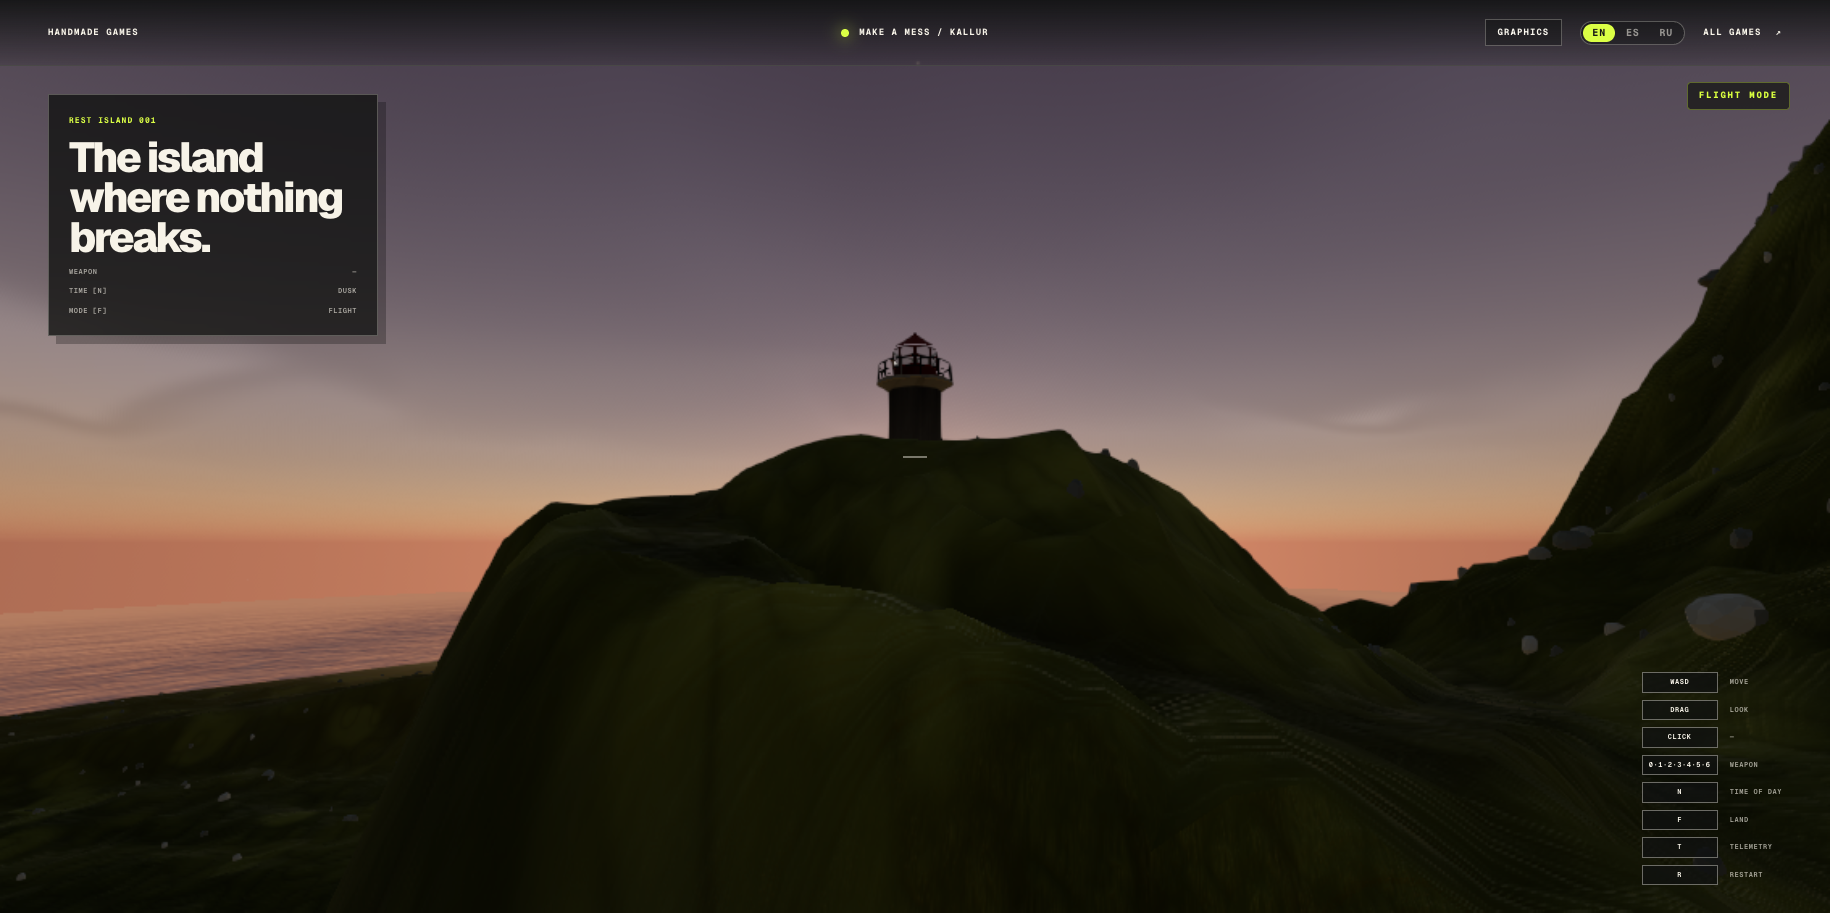
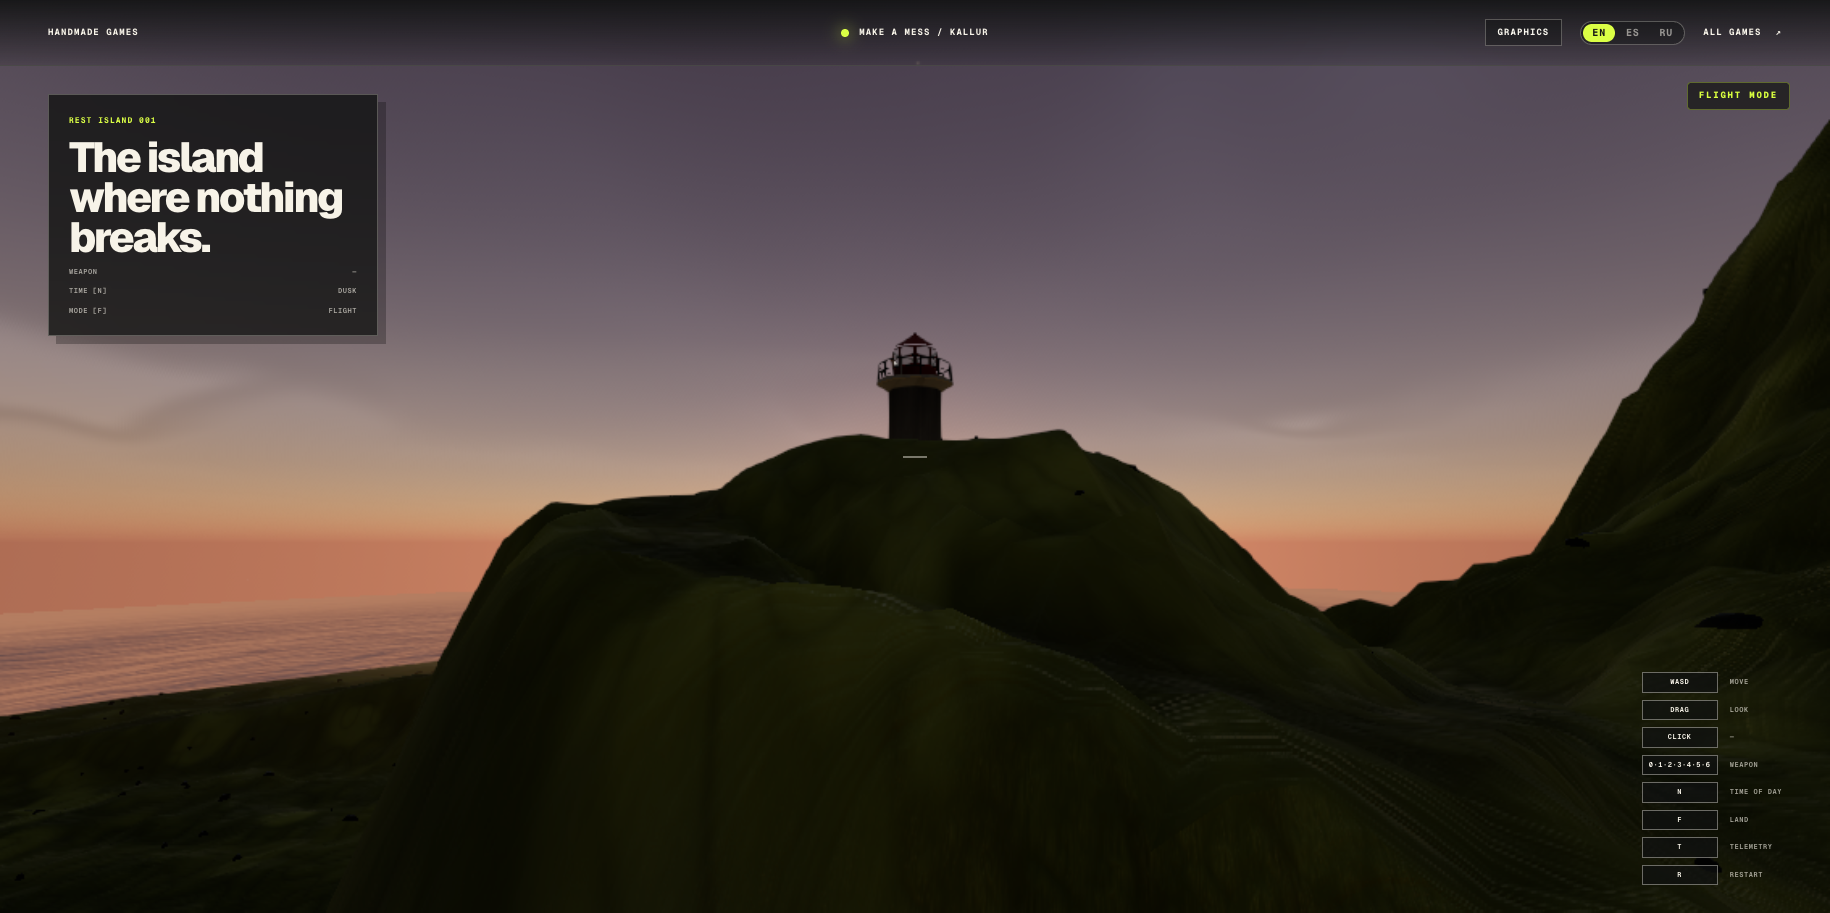
fix(kallur): boulders rejoin the world's laws - all four notes at once
Igor's holistic verdict executed as one architecture, not four patches.
The surface: the render material IS the piece pipeline's basalt
(getPieceMaterial), so the boulders breathe the same materialAtmosphere
air they used to ignore, wear the world's stone texture, bump and
wetness, and their bodies are the escarpment strata ratios via
instanceColor - the pale blue-grey impossible on the Faroes is gone.
Shading: the facet soup welds into shared vertices - the polygon keeps
the silhouette, the smoothed form reads like the world's shells. Albedo
masks only on top: lichen crowns, the sod line converging to turf at
the base, and the beach wet band below the sand's own waterline law.
The seat: slope physics - a hillside boulder sinks INTO the ground (up
to 0.6 of its size), tilts its base to the terrain normal, lies with
its long axis along the contour, and columnar stubs stand on near-flat
ground only. Colliders untouched.

diff --git a/games/make-a-mess/src/game/KallurBoulders.tsx b/games/make-a-mess/src/game/KallurBoulders.tsx
@@ -3,96 +3,153 @@ import {
   BufferAttribute,
   BufferGeometry,
   Color,
+  Euler,
+  InstancedBufferAttribute,
   InstancedMesh,
   Matrix4,
   MeshStandardMaterial,
   Quaternion,
-  Euler,
   Vector3,
 } from "three";
 import {
   buildBoulderArchetype,
   KALLUR_BOULDER_ARCHETYPES,
 } from "../content/objects/kallur/kallurBoulderKitObject.ts";
-import { kallurBoulderPlacements } from "../content/scenes/kallur/kallurBoulderPlacements.ts";
+import {
+  KALLUR_BOULDER_BODY_COLOUR,
+  kallurBoulderPlacements,
+} from "../content/scenes/kallur/kallurBoulderPlacements.ts";
+import { getPieceMaterial } from "./materialTextures.ts";
 
 /**
- * The accepted boulder kit in the world: SIX InstancedMesh, one per
- * archetype — ~1700 stones in six draw calls. Geometry is built once per
- * process (module memo below), matrices once per mount; nothing is
- * recomputed per frame or per launch beyond that (Igor's condition).
- * The invisible box pieces keep colliders and support. The lichen crown
- * is an ALBEDO mask (world-up + hash), not a lighting law — light stays
- * with its single owner.
+ * The accepted boulder kit in the world — six InstancedMesh, and the
+ * SURFACE belongs to the world's own laws (Igor, 21.08, all four points
+ * at once): the material is the piece pipeline's basalt via
+ * getPieceMaterial, so the boulders breathe the same materialAtmosphere
+ * air (they used to ignore the haze), wear the same stone micro-texture,
+ * bump and wetness as every rock of Kallur, and their body tones are the
+ * escarpment strata ratios via instanceColor. The polygon still owns the
+ * SILHOUETTE; shading is smoothed by welding the facet soup into shared
+ * vertices — the same smoothed-form reading the world's shells have. On
+ * top ride two albedo masks only: lichen crowns (world-up + hash) and
+ * the sod line at the base that converges to the turf statistics.
+ * Geometry is built once per process; matrices once per mount.
  */
 
-let archetypeGeometryCache: Map<string, BufferGeometry> | null = null;
+let geometryCache: Map<string, BufferGeometry> | null = null;
 
-function archetypeGeometries(): Map<string, BufferGeometry> {
-  if (archetypeGeometryCache) return archetypeGeometryCache;
-  const cache = new Map<string, BufferGeometry>();
-  for (const archetype of KALLUR_BOULDER_ARCHETYPES) {
-    const source = buildBoulderArchetype(archetype);
-    const geometry = new BufferGeometry();
-    const positions = new Float32Array(source.vertices.length * 3);
-    source.vertices.forEach(([x, y, z], index) => {
-      positions[index * 3] = x;
-      positions[index * 3 + 1] = y;
-      positions[index * 3 + 2] = z;
-    });
-    geometry.setAttribute("position", new BufferAttribute(positions, 3));
-    geometry.setIndex(
-      new BufferAttribute(
-        new Uint16Array(source.triangles.flat()),
-        1,
-      ),
-    );
-    geometry.computeVertexNormals();
-    geometry.computeBoundingSphere();
-    cache.set(archetype.id, geometry);
+/** Weld the facet soup into shared vertices: polygonal silhouette, smooth shading. */
+function weldedGeometry(archetypeId: string): BufferGeometry | undefined {
+  if (!geometryCache) {
+    geometryCache = new Map();
+    for (const archetype of KALLUR_BOULDER_ARCHETYPES) {
+      const source = buildBoulderArchetype(archetype);
+      const index = new Map<string, number>();
+      const positions: number[] = [];
+      const remap: number[] = [];
+      source.vertices.forEach(([x, y, z]) => {
+        const key = `${x.toFixed(4)}:${y.toFixed(4)}:${z.toFixed(4)}`;
+        let slot = index.get(key);
+        if (slot === undefined) {
+          slot = positions.length / 3;
+          positions.push(x, y, z);
+          index.set(key, slot);
+        }
+        remap.push(slot);
+      });
+      const indices: number[] = [];
+      for (const [a, b, c] of source.triangles) {
+        indices.push(remap[a], remap[b], remap[c]);
+      }
+      const geometry = new BufferGeometry();
+      geometry.setAttribute(
+        "position",
+        new BufferAttribute(new Float32Array(positions), 3),
+      );
+      geometry.setIndex(new BufferAttribute(new Uint16Array(indices), 1));
+      geometry.computeVertexNormals();
+      geometry.computeBoundingSphere();
+      geometryCache.set(archetype.id, geometry);
+    }
   }
-  archetypeGeometryCache = cache;
-  return cache;
+  return geometryCache.get(archetypeId);
 }
 
-const boulderMaterial = new MeshStandardMaterial({
-  color: "#ffffff",
-  roughness: 0.94,
-  metalness: 0,
-});
-boulderMaterial.onBeforeCompile = (shader) => {
-  shader.vertexShader = shader.vertexShader
-    .replace(
-      "#include <common>",
-      "#include <common>\nvarying vec3 vBoulderWorldNormal;\nvarying vec3 vBoulderWorld;",
-    )
-    .replace(
-      "#include <worldpos_vertex>",
-      `#include <worldpos_vertex>
-vBoulderWorld = (modelMatrix * instanceMatrix * vec4(position, 1.0)).xyz;
-vBoulderWorldNormal = normalize(mat3(modelMatrix) * mat3(instanceMatrix) * normal);`,
-    );
-  shader.fragmentShader = shader.fragmentShader
-    .replace(
-      "#include <common>",
-      "#include <common>\nvarying vec3 vBoulderWorldNormal;\nvarying vec3 vBoulderWorld;",
-    )
-    .replace(
-      "#include <map_fragment>",
-      `#include <map_fragment>
-// Lichen crowns (bible III): pale speckle on upward faces — the bright
-// dots that make the reference hill "вкусно". Albedo only.
-float lichenHash = fract(sin(dot(floor(vBoulderWorld.xz * 3.1),
+/** Neutral piece-pipeline attributes (the LandscapeSurface recipe). */
+function attachPieceAttributes(geometry: BufferGeometry, count: number): void {
+  const fill = (values: readonly number[], size: number) => {
+    const data = new Float32Array(count * size);
+    for (let row = 0; row < count; row += 1) {
+      for (let component = 0; component < size; component += 1) {
+        data[row * size + component] = values[component];
+      }
+    }
+    return new InstancedBufferAttribute(data, size);
+  };
+  geometry.setAttribute("materialAnchor", fill([0, 0, 0, 0], 4));
+  geometry.setAttribute("bakedAoA", fill([1, 1, 1, 1], 4));
+  geometry.setAttribute("bakedAoB", fill([1, 1, 1, 1], 4));
+  geometry.setAttribute("bakedSkyExposure", fill([1], 1));
+  geometry.setAttribute("materialFaceMaskPos", fill([0, 0, 0], 3));
+  geometry.setAttribute("materialFaceMaskNeg", fill([0, 0, 0], 3));
+  geometry.setAttribute("silicateJointBand", fill([0], 1));
+  geometry.setAttribute("silicateJointTint", fill([0, 0, 0], 3));
+}
+
+let boulderMaterial: MeshStandardMaterial | null = null;
+
+function getBoulderMaterial(): MeshStandardMaterial {
+  if (boulderMaterial) return boulderMaterial;
+  // A PRIVATE cache entry (the colour string differs from every wall
+  // stratum), so wrapping its compile hook cannot lichen the wall.
+  const material = getPieceMaterial("basalt", KALLUR_BOULDER_BODY_COLOUR);
+  const pieceCompile = material.onBeforeCompile;
+  material.onBeforeCompile = (shader, renderer) => {
+    pieceCompile?.(shader, renderer);
+    shader.vertexShader = shader.vertexShader
+      .replace(
+        "#include <common>",
+        "#include <common>\nvarying float vBoulderLocalY;",
+      )
+      .replace(
+        "#include <begin_vertex>",
+        "#include <begin_vertex>\nvBoulderLocalY = position.y;",
+      );
+    shader.fragmentShader = shader.fragmentShader
+      .replace(
+        "#include <common>",
+        "#include <common>\nvarying float vBoulderLocalY;",
+      )
+      .replace(
+        "#include <color_fragment>",
+        `#include <color_fragment>
+// Albedo masks only - light keeps its owner. Lichen crowns: the bright
+// speckle of the reference (bible III), on upward faces of the tops.
+vec3 boulderWorldNormal = inverseTransformDirection(normalize(vNormal), viewMatrix);
+float boulderLichenHash = fract(sin(dot(floor(vMaterialCoordinate.xz * 2.7),
   vec2(127.1, 311.7))) * 43758.5453);
-float lichen = smoothstep(0.55, 0.9, vBoulderWorldNormal.y)
-  * smoothstep(0.35, 0.75, lichenHash);
-diffuseColor.rgb = mix(diffuseColor.rgb, vec3(0.76, 0.77, 0.72), lichen * 0.55);`,
-    );
-};
+float boulderLichen = smoothstep(0.6, 0.92, boulderWorldNormal.y)
+  * smoothstep(0.45, 0.8, boulderLichenHash)
+  * smoothstep(0.2, 0.5, vBoulderLocalY);
+diffuseColor.rgb = mix(diffuseColor.rgb, vec3(0.398, 0.415, 0.373), boulderLichen * 0.5);
+// The sod line: the base converges to the turf's colour statistics, so
+// the stone SITS in the hill instead of resting on it.
+float boulderSod = smoothstep(0.3, 0.06, vBoulderLocalY)
+  * smoothstep(0.25, 0.75, boulderWorldNormal.y * 0.5 + 0.5);
+diffuseColor.rgb = mix(diffuseColor.rgb, vec3(0.153, 0.162, 0.061), boulderSod * 0.55);
+// Beach boulders darken below the same waterline law as the sand.
+float boulderWet = smoothstep(1.3, 0.7, vMaterialCoordinate.y);
+diffuseColor.rgb *= 1.0 - boulderWet * 0.45;`,
+      );
+  };
+  material.customProgramCacheKey = () => "kallur-boulder-basalt";
+  material.needsUpdate = true;
+  boulderMaterial = material;
+  return material;
+}
 
 export function KallurBoulders() {
   const meshes = useMemo(() => {
-    const geometries = archetypeGeometries();
     const placements = kallurBoulderPlacements();
     const byArchetype = new Map<string, typeof placements[number][]>();
     for (const placement of placements) {
@@ -105,18 +162,23 @@ export function KallurBoulders() {
     const scale = new Vector3();
     const position = new Vector3();
     const colour = new Color();
+    const material = getBoulderMaterial();
     const built: InstancedMesh[] = [];
     for (const [archetype, bucket] of byArchetype) {
-      const geometry = geometries.get(archetype);
-      if (!geometry) continue;
-      const mesh = new InstancedMesh(geometry, boulderMaterial, bucket.length);
+      const base = weldedGeometry(archetype);
+      if (!base) continue;
+      const geometry = base.clone();
+      attachPieceAttributes(geometry, bucket.length);
+      const mesh = new InstancedMesh(geometry, material, bucket.length);
       bucket.forEach((placement, index) => {
         position.set(...placement.position);
         quaternion.setFromEuler(new Euler(...placement.rotation));
         scale.set(...placement.scale);
         matrix.compose(position, quaternion, scale);
         mesh.setMatrixAt(index, matrix);
-        mesh.setColorAt(index, colour.set(placement.colour));
+        // instanceColor is a RATIO against the body colour: the strata
+        // tones of the escarpment, dark to mid.
+        mesh.setColorAt(index, colour.setRGB(...placement.tint));
       });
       mesh.instanceMatrix.needsUpdate = true;
       if (mesh.instanceColor) mesh.instanceColor.needsUpdate = true;

diff --git a/games/make-a-mess/src/content/scenes/kallur/kallurBoulderPlacements.ts b/games/make-a-mess/src/content/scenes/kallur/kallurBoulderPlacements.ts
@@ -4,6 +4,7 @@ import {
 } from "../../objects/kallur/kallurBoulderKitObject.ts";
 import {
   kallurGroundTopAt,
+  kallurLandscapeSampler,
   kallurStones,
 } from "./kallurLandscapeDocument.ts";
 import { kallurVisibleStones } from "./kallurStoneField.ts";
@@ -23,8 +24,14 @@ export interface KallurBoulderPlacement {
   readonly position: readonly [number, number, number];
   readonly rotation: readonly [number, number, number];
   readonly scale: readonly [number, number, number];
-  readonly colour: string;
+  /** instanceColor RATIO against the body colour: strata tones, dark→mid. */
+  readonly tint: readonly [number, number, number];
 }
+
+/** The body colour of every boulder: the escarpment's own basalt family.
+ * Deliberately NOT equal to any wall stratum string, so the render
+ * material owns a private cache entry. */
+export const KALLUR_BOULDER_BODY_COLOUR = "#565b55";
 
 /** Nominal bbox height of each archetype at unit scale, measured once. */
 const archetypeHeights: ReadonlyMap<string, number> = new Map(
@@ -36,17 +43,23 @@ const archetypeHeights: ReadonlyMap<string, number> = new Map(
   }),
 );
 
-/** Deterministic archetype pick from the stone's own numbers. */
+/** Deterministic archetype pick from the stone's own numbers AND the
+ * ground it stands on: a columnar stub cannot balance on a hillside, and
+ * steep ground carries lying forms only (Igor, физика положения). */
 export function kallurBoulderArchetypeFor(stone: {
   readonly size: number;
   readonly tone: number;
-}): string {
+}, slope = 0): string {
   if (stone.size < 0.45) return "loaf";
   const pick = (stone.tone * 13.7) % 1;
+  if (slope > 0.8) return pick < 0.55 ? "rounded" : "slab";
   if (pick < 0.34) return "rounded";
   if (pick < 0.55) return "slab";
   if (pick < 0.7) return "twin";
-  if (pick < 0.85) return stone.size >= 1.4 ? "split" : "column";
+  if (pick < 0.85) {
+    if (slope < 0.35 && stone.size < 1.4) return "column";
+    return "split";
+  }
   return "split";
 }
 
@@ -55,32 +68,48 @@ let cached: readonly KallurBoulderPlacement[] | null = null;
 export function kallurBoulderPlacements(): readonly KallurBoulderPlacement[] {
   if (cached) return cached;
   const placements: KallurBoulderPlacement[] = [];
+  // Strata ratios against the body colour #565b55 (linear-free: ratios of
+  // sRGB components track closely at these small spans).
+  const tintFor = (tone: number): readonly [number, number, number] => {
+    const target = tone > 0.72
+      ? [0x7c, 0x7f, 0x74]
+      : tone > 0.35
+        ? [0x5d, 0x61, 0x5c]
+        : [0x47, 0x4e, 0x48];
+    return [target[0] / 0x56, target[1] / 0x5b, target[2] / 0x55];
+  };
   for (const stone of kallurVisibleStones(kallurStones)) {
     const collarTop = kallurGroundTopAt(stone.x, stone.z);
+    const gradient = kallurLandscapeSampler.gradientAt(stone.x, stone.z);
+    const slope = Math.hypot(gradient.x, gradient.z);
     const crownHeight = stone.size * (1 - stone.embed) * 0.9 + 0.15;
-    const colour = stone.tone > 0.72
-      ? "#b9bdb4"
-      : stone.tone > 0.35
-        ? "#8f958d"
-        : "#79807b";
-    const archetype = kallurBoulderArchetypeFor(stone);
+    const archetype = kallurBoulderArchetypeFor(stone, slope);
     const nominalHeight = archetypeHeights.get(archetype) ?? 1;
-    // The instance spans the same visual budget the box crown owned: its
-    // bottom sits 0.35 sunk into the collar and its top reaches the crown
-    // height, whatever the archetype's own proportions are.
-    const scaleY = (crownHeight + 0.35) / nominalHeight;
+    // Slope physics: a boulder on a hillside GROWS INTO it — the steeper
+    // the ground, the deeper it sinks (only a low back shows), and its
+    // base tilts to the terrain normal so nothing balances on an edge.
+    const slopeSink = Math.min(0.6, slope * 0.4) * stone.size;
+    const scaleY = Math.max(
+      0.2,
+      (crownHeight + 0.35 - slopeSink * 0.5) / nominalHeight,
+    );
     const scaleXZ = stone.size * 0.98;
+    const tiltLimit = 0.45;
+    const tiltX = Math.max(-tiltLimit, Math.min(tiltLimit,
+      Math.atan(gradient.z) + (stone.tone - 0.5) * 0.12));
+    const tiltZ = Math.max(-tiltLimit, Math.min(tiltLimit,
+      -Math.atan(gradient.x) + (((stone.tone * 7) % 1) - 0.5) * 0.12));
+    // Long axis along the contour on slopes: yaw follows the level line.
+    const contourYaw = slope > 0.5
+      ? Math.atan2(gradient.x, -gradient.z)
+      : stone.yaw;
     placements.push({
       id: stone.id,
       archetype,
-      position: [stone.x, collarTop - 0.35, stone.z],
-      rotation: [
-        (stone.tone - 0.5) * 0.24,
-        stone.yaw,
-        (((stone.tone * 7) % 1) - 0.5) * 0.24,
-      ],
+      position: [stone.x, collarTop - 0.35 - slopeSink, stone.z],
+      rotation: [tiltX, contourYaw, tiltZ],
       scale: [scaleXZ, scaleY, scaleXZ * 0.82],
-      colour,
+      tint: tintFor(stone.tone),
     });
   }
   cached = placements;
